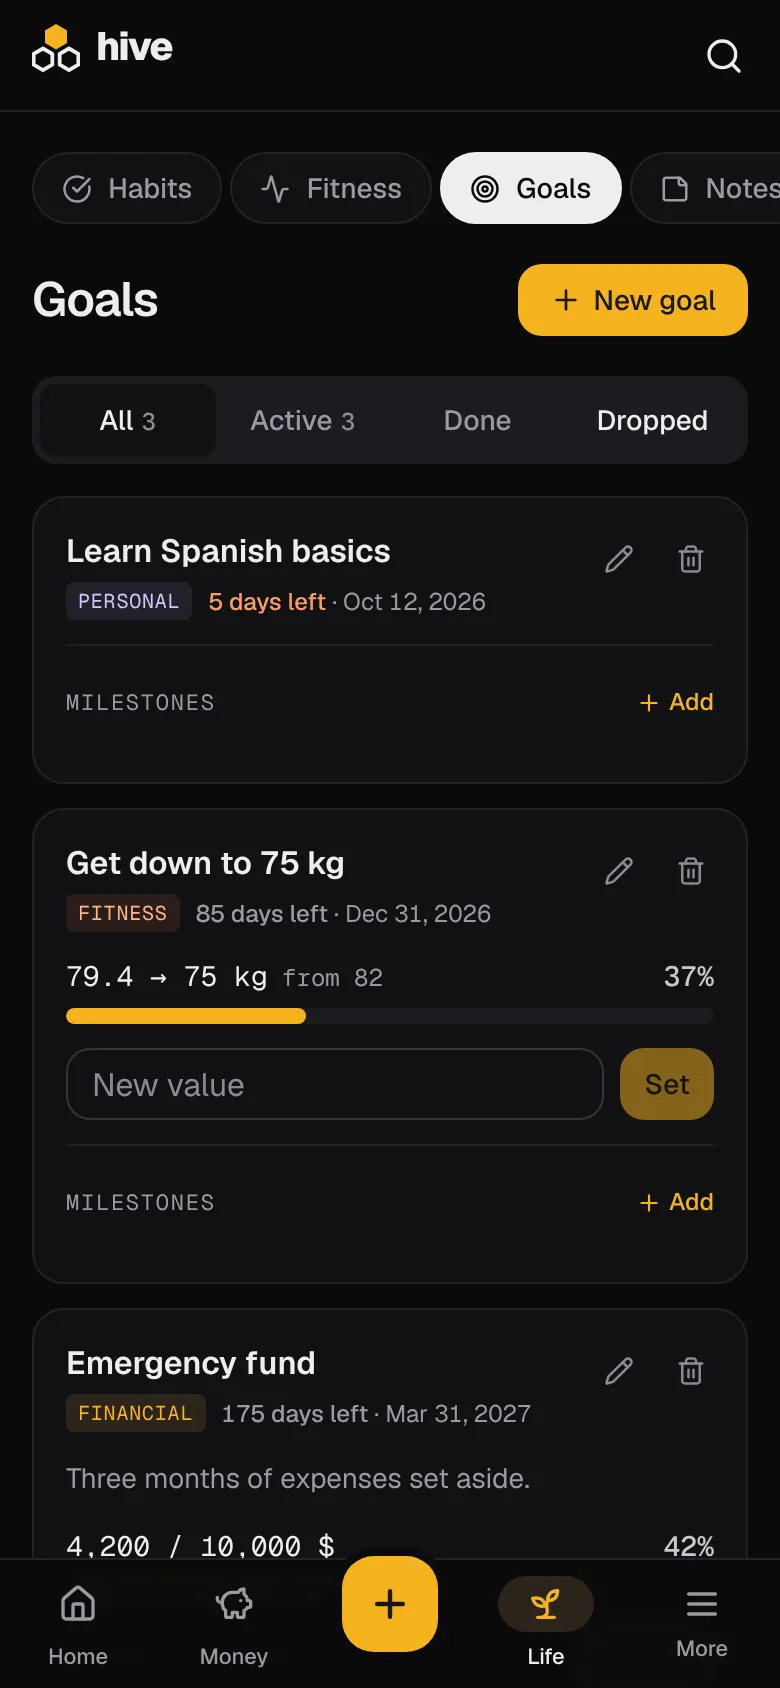
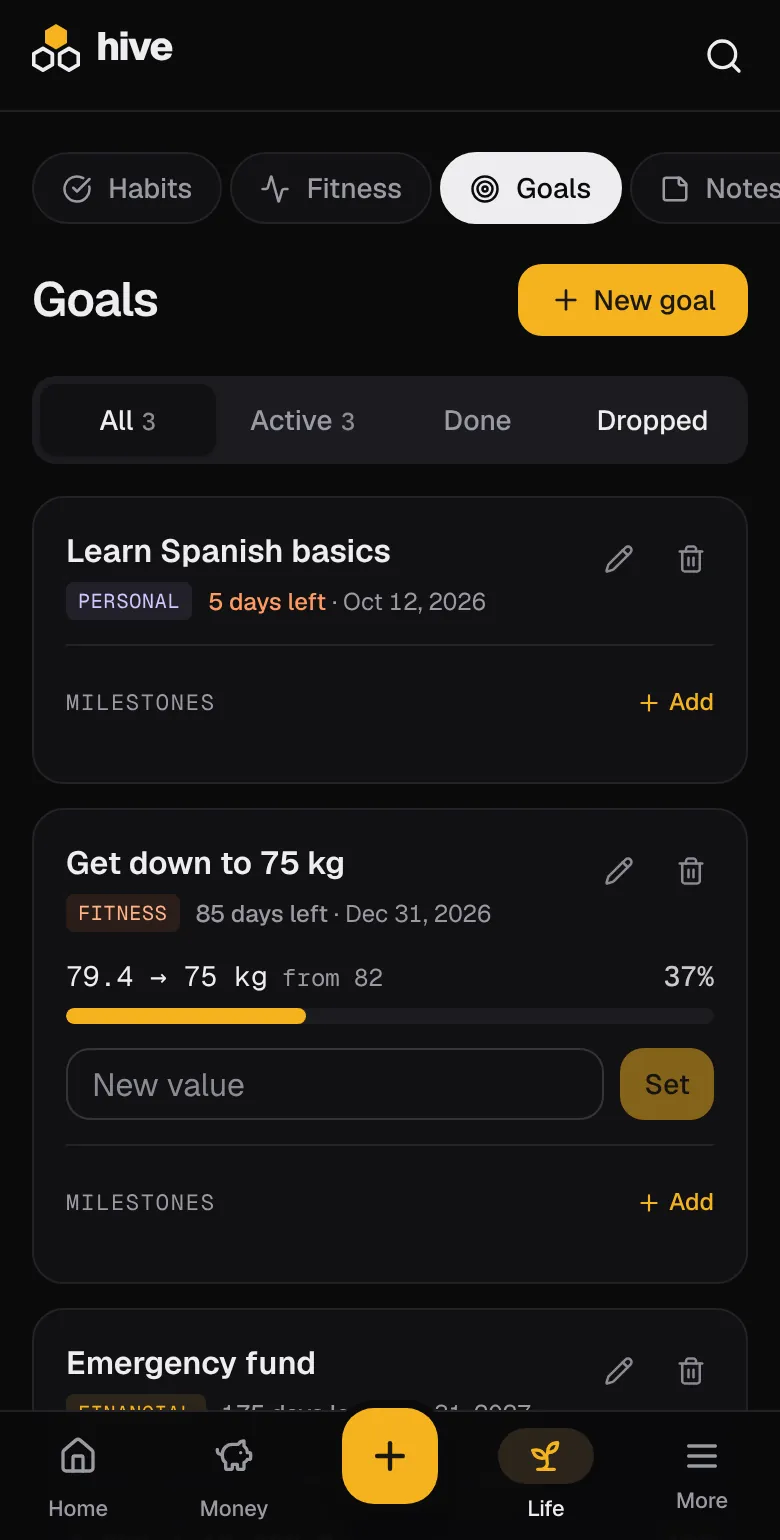
Website: realistic phone frames
Phone screenshots are re-shot at 390x770 and framed with a status bar (time,
signal, battery, camera island) above and a home indicator below, matched to the
app's light and dark colours, so the camera no longer covers the app's header.
The bezel is sized from the phone's own width (container units) instead of the
parent's, which made the hero phone's bezel too thick.

Claude-Session: https://claude.ai/code/session_01NoL1CCcyv8bjkoG6VAD5ty

diff --git a/website/src/components/Frames.tsx b/website/src/components/Frames.tsx
@@ -1,12 +1,39 @@
-/** A phone bezel around a screenshot; `name` picks /screens/phone-<name>-{light,dark}.webp. */
+/**
+ * A phone around a screenshot; `name` picks /screens/phone-<name>-{light,dark}.webp (390×770 shots).
+ * A status bar with the camera on top and a home indicator below make up the full 390×844 screen, so the
+ * camera never covers the app's own header. Sizes are in container units, so it scales with its width.
+ */
 export function Phone({ name, alt, className = "", priority }: { name: string; alt: string; className?: string; priority?: boolean }) {
   return (
-    <div
-      className={`rounded-[2.6rem] bg-[#0b0b0c] p-[9px] shadow-[0_30px_60px_-20px_rgba(0,0,0,0.45),0_0_0_1px_rgba(255,255,255,0.06)_inset] ${className}`}
-    >
-      <div className="relative overflow-hidden rounded-[2.05rem] bg-canvas aspect-[390/844]">
-        <Shot src={`/screens/phone-${name}`} alt={alt} priority={priority} />
-        <span className="absolute top-2 left-1/2 -translate-x-1/2 h-[22px] w-[30%] rounded-full bg-[#0b0b0c]" aria-hidden="true" />
+    // Padding in % follows the containing block, not the phone, so the bezel is sized in units of the
+    // phone's own width (the wrapper is the container).
+    <div className={`@container ${className}`}>
+      <div className="rounded-[15%/7%] bg-[#1c1c1f] p-[2.6cqw] shadow-[0_40px_70px_-30px_rgba(0,0,0,0.5),inset_0_0_0_1px_rgba(255,255,255,0.08)] ring-1 ring-black/20">
+      <div className="@container overflow-hidden rounded-[12.5%/5.8%] aspect-[390/844] flex flex-col bg-[#f4f4f1] dark:bg-[#0a0a0b]">
+        <div
+          className="relative shrink-0 aspect-[390/50] flex items-center justify-between px-[8%] text-[#0b0b0c] dark:text-[#ededef]"
+          aria-hidden="true"
+        >
+          <span className="text-[3.9cqw] font-semibold tracking-tight">9:41</span>
+          <span className="absolute left-1/2 -translate-x-1/2 top-[22%] h-[56%] w-[29%] rounded-full bg-black" />
+          <span className="flex items-center gap-[1.2cqw]">
+            <span className="flex items-end gap-[0.5cqw] h-[2.8cqw]">
+              {[40, 60, 80, 100].map((h) => (
+                <span key={h} className="w-[0.8cqw] rounded-[0.3cqw] bg-current" style={{ height: `${h}%` }} />
+              ))}
+            </span>
+            <span className="relative w-[6.4cqw] h-[3cqw] rounded-[0.9cqw] border-[0.3cqw] border-current/40 p-[0.35cqw]">
+              <span className="block h-full w-[78%] rounded-[0.4cqw] bg-current" />
+            </span>
+          </span>
+        </div>
+        <div className="relative shrink-0 aspect-[390/770]">
+          <Shot src={`/screens/phone-${name}`} alt={alt} priority={priority} />
+        </div>
+        <div className="shrink-0 aspect-[390/24] flex items-center justify-center" aria-hidden="true">
+          <span className="w-[34%] h-[1.3cqw] rounded-full bg-black/80 dark:bg-white/70" />
+        </div>
+      </div>
       </div>
     </div>
   );
